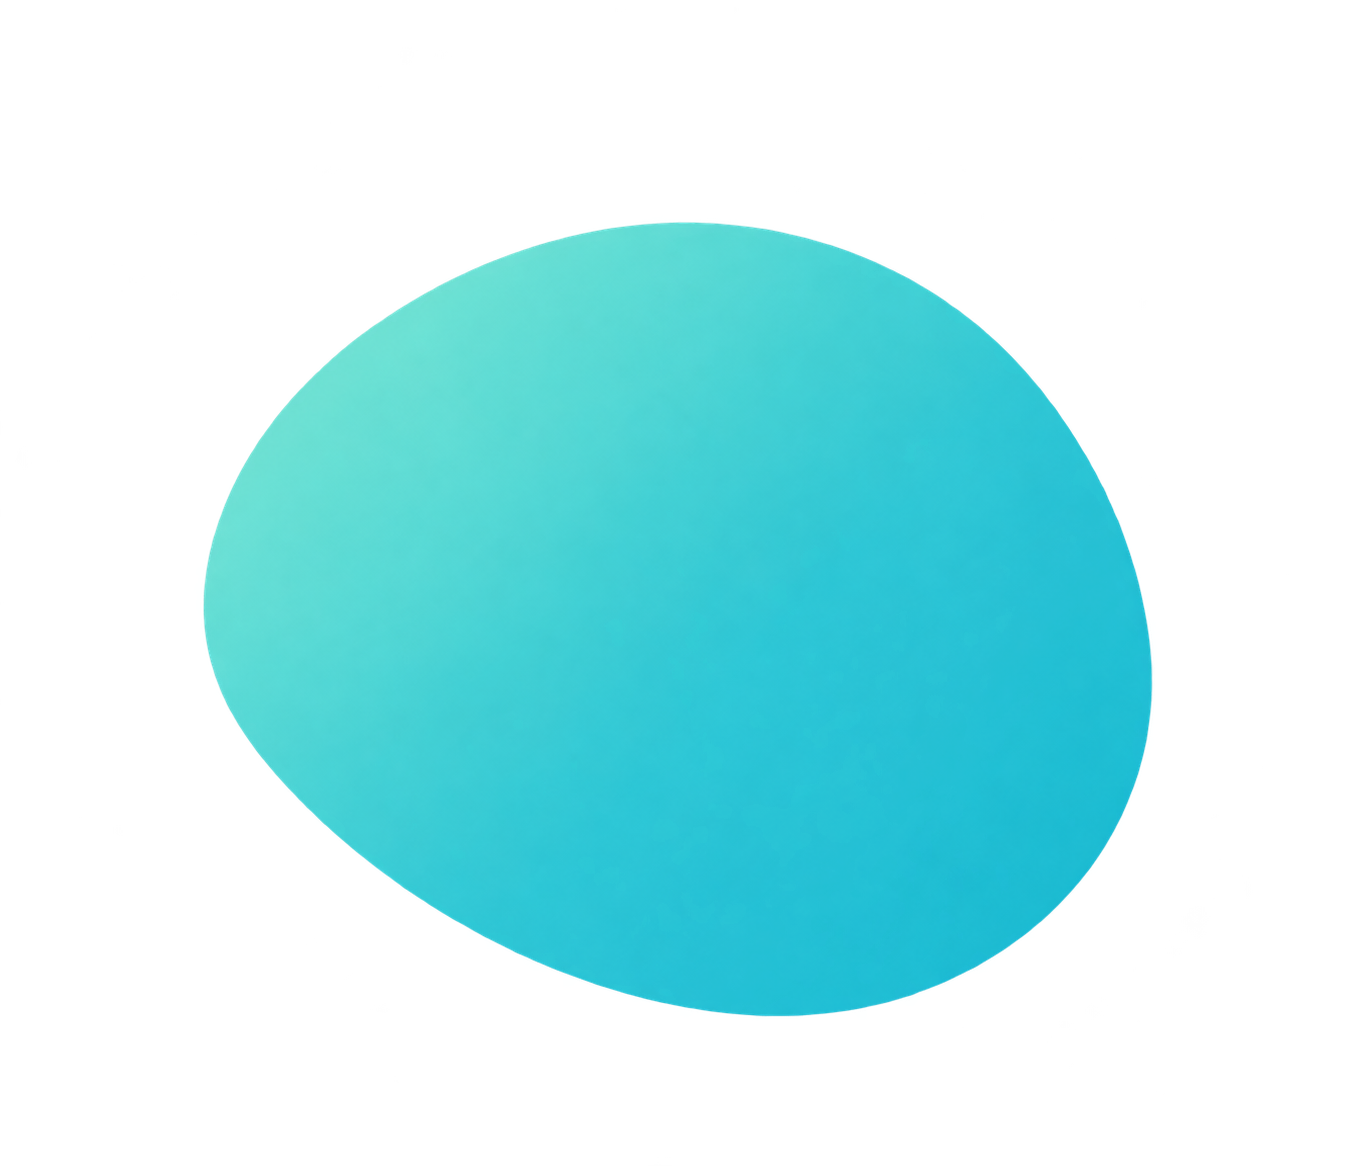
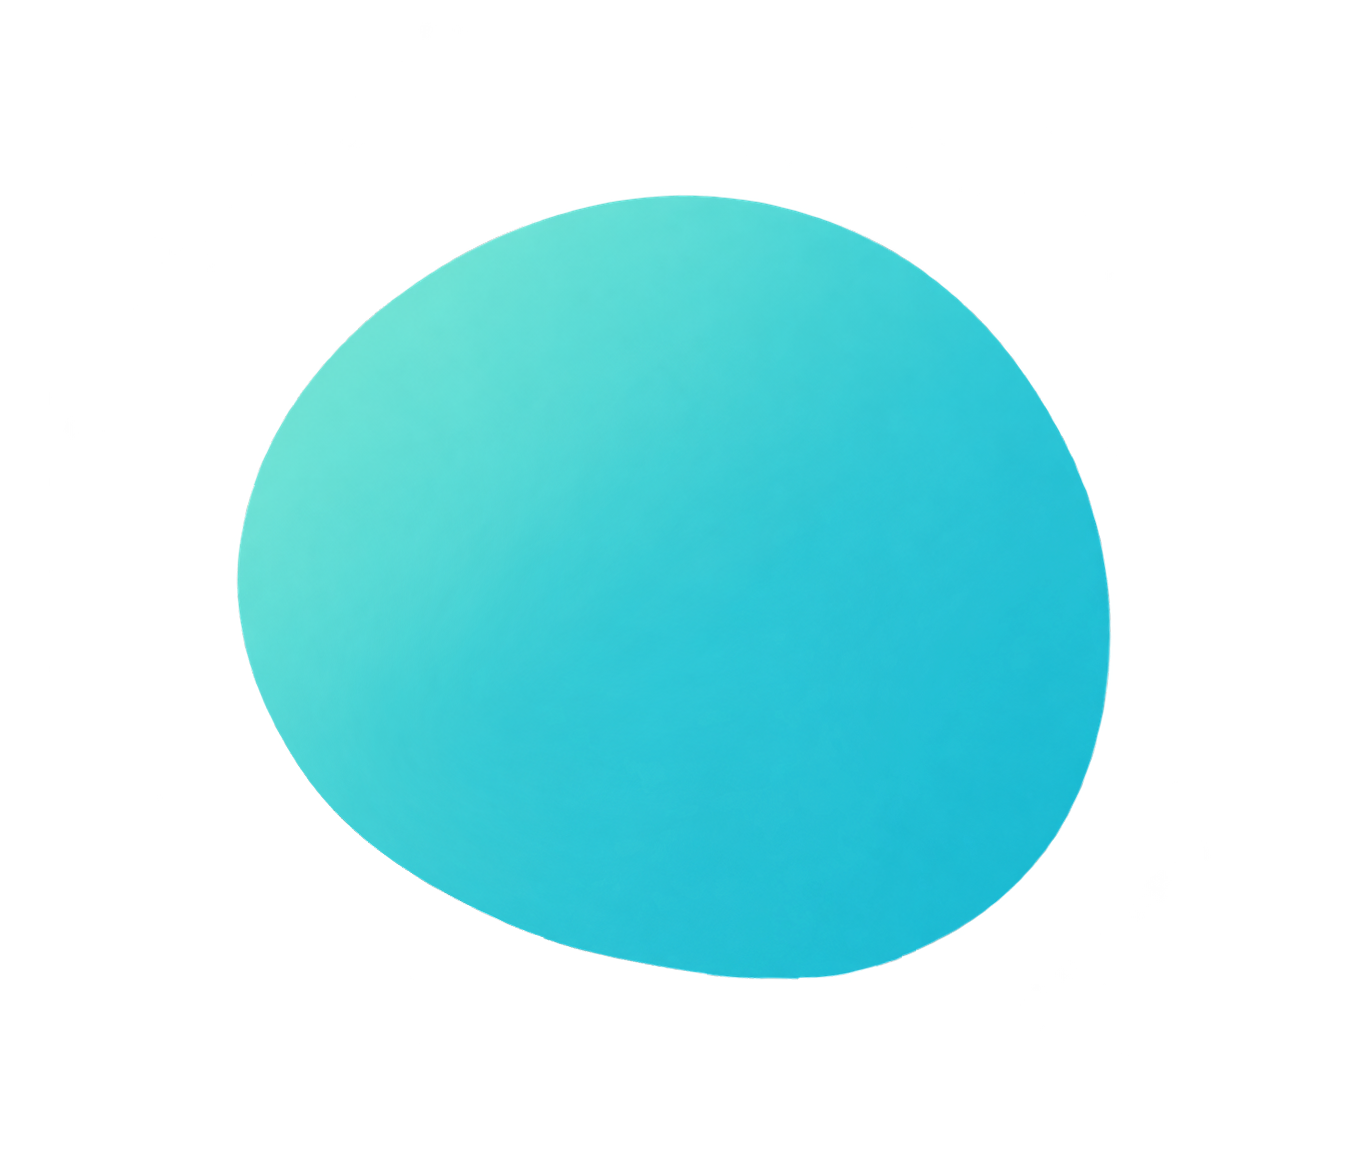
Обновить блоб и прокрутку чата

diff --git a/new/style.css b/new/style.css
@@ -2,8 +2,8 @@
 
 :root{font-family:Manrope,system-ui,-apple-system,BlinkMacSystemFont,"Segoe UI",sans-serif;color:#264d51;background:#f4fbfa;font-synthesis:none;-webkit-font-smoothing:antialiased}*{box-sizing:border-box}body{min-width:320px;min-height:100dvh;margin:0;background:radial-gradient(circle at 12% 12%,#dcf5ec 0,transparent 31rem),radial-gradient(circle at 88% 91%,#e5f0f9 0,transparent 33rem),#f6fbfa}button,input{font:inherit}button{cursor:pointer}.sr-only{position:absolute;width:1px;height:1px;overflow:hidden;clip:rect(0,0,0,0);white-space:nowrap}
 .assistant-lab{display:grid;grid-template-columns:minmax(0,1fr) minmax(380px,490px);gap:clamp(32px,7vw,100px);align-items:center;width:min(1120px,100%);min-height:100dvh;margin:0 auto;padding:clamp(28px,6vw,80px) 28px}.bot-stage{display:grid;justify-items:center;align-content:center;min-height:610px;text-align:center}.stage-copy{position:relative;z-index:1}.eyebrow{display:block;margin-bottom:8px;color:#72a09a;font-size:.68rem;font-weight:800;letter-spacing:.14em;text-transform:uppercase}.stage-copy h1{margin:0;color:#20494d;font-size:clamp(2rem,4.2vw,3.35rem);letter-spacing:-.065em;line-height:1.05}.stage-copy p{margin:15px 0 0;color:#789692;font-size:.9rem}.bot{position:relative;display:grid;place-items:center;width:clamp(178px,19vw,238px);aspect-ratio:1;margin:58px 0 25px;isolation:isolate;animation:float 4.5s ease-in-out infinite}.bot-glow{position:absolute;z-index:-1;width:118%;height:68%;border-radius:50%;background:#68d4c470;filter:blur(28px);transform:translateY(48%)}.bot-body{display:grid;place-items:center;width:100%;height:100%;border-radius:52% 48% 54% 46% / 44% 48% 52% 56%;background:linear-gradient(135deg,#69dcc2 0%,#44ceb8 52%,#3ac8bd 100%);box-shadow:inset 10px 12px 23px #ffffff45,inset -12px -14px 25px #168e8a20,0 21px 40px #3eb8ab40;transform:rotate(-7deg);transition:filter .25s ease}.bot-eyes{display:flex;gap:clamp(25px,3vw,35px);transform:translate(var(--gaze-x,0),var(--gaze-y,0)) rotate(7deg);transition:transform .18s ease-out;animation:blink 5.6s ease-in-out infinite}.bot-eye{display:block;width:clamp(12px,1.4vw,17px);height:clamp(31px,4vw,43px);border-radius:999px;background:#fff;box-shadow:0 1px 2px #167f7c35}.bot.thinking .bot-body{filter:saturate(.88) brightness(.97)}.bot.thinking .bot-eyes{animation-duration:1.4s}.stage-hint{color:#98aca9;font-size:.72rem}
-.help-panel{display:flex;flex-direction:column;min-height:620px;max-height:min(760px,calc(100dvh - 80px));overflow:hidden;border:1px solid #ffffffd9;border-radius:30px;background:#ffffffc9;box-shadow:0 28px 82px #2f7e7520,0 3px 16px #2f7e750b;backdrop-filter:blur(20px)}.help-header{display:flex;align-items:center;justify-content:space-between;gap:12px;padding:25px 26px 21px;border-bottom:1px solid #e6f0ed}.help-header .eyebrow{margin-bottom:5px}.help-header h2{margin:0;color:#274e52;font-size:1.48rem;letter-spacing:-.05em}.online{display:inline-flex;align-items:center;gap:6px;color:#7c9994;font-size:.68rem;font-weight:700}.online i{width:7px;height:7px;border-radius:50%;background:#58d1a8;box-shadow:0 0 0 4px #58d1a81e}.conversation{flex:1;overflow-y:auto;padding:23px 25px;scroll-behavior:smooth;scrollbar-color:#c7e3dd transparent;scrollbar-width:thin}.message{display:flex;flex-direction:column;align-items:flex-start;max-width:90%;margin:0 0 17px;animation:message-in .28s ease both}.message.user{align-items:flex-end;margin-left:auto}.message-bubble{padding:13px 15px;border:1px solid #e4eeeb;border-radius:18px 18px 18px 6px;background:#fff;color:#426568;font-size:.8rem;line-height:1.56;box-shadow:0 6px 18px #2d746f0a}.user .message-bubble{border:0;border-radius:18px 18px 6px 18px;background:linear-gradient(135deg,#61d6bf,#3ac5b8);color:#fff}.message-time{margin:5px 5px 0;color:#a6b8b5;font-size:.58rem}.choices{display:grid;grid-template-columns:repeat(2,minmax(0,1fr));gap:8px;margin:0 0 20px;animation:message-in .28s ease both}.choices button{min-height:43px;padding:8px 10px;border:1px solid #dcebe6;border-radius:12px;background:#fff;color:#4a7775;font-size:.68rem;font-weight:750;line-height:1.25;text-align:left;transition:transform .16s ease,border-color .16s ease,background .16s ease}.choices button:hover{border-color:#9cdacd;background:#f5fcfa;transform:translateY(-1px)}.choices button:active{transform:scale(.98)}.composer{display:flex;align-items:center;gap:8px;margin:0 19px calc(17px + env(safe-area-inset-bottom));padding:7px 7px 7px 15px;border:1px solid #dceae6;border-radius:18px;background:#fff;box-shadow:0 9px 25px #2d746f14}.composer:focus-within{border-color:#9edfd4;box-shadow:0 9px 25px #2d746f14,0 0 0 3px #76d7c628}.composer input{width:100%;min-width:0;border:0;outline:0;background:transparent;color:#32585b;font-size:.78rem}.composer input::placeholder{color:#a7bab7}.composer button{display:grid;place-items:center;width:38px;height:38px;flex:none;border:0;border-radius:12px;background:linear-gradient(135deg,#68d6be,#3ec4b8);color:#fff;box-shadow:0 5px 13px #3db9ae35}.composer button:active{transform:scale(.94)}.composer svg{width:19px;height:19px;fill:none;stroke:currentColor;stroke-width:2;stroke-linecap:round;stroke-linejoin:round}
-@keyframes float{0%,100%{transform:translateY(0) rotate(0)}50%{transform:translateY(-9px) rotate(1deg)}}@keyframes blink{0%,43%,47%,100%{scale:1 1}45%{scale:1 .08}}@keyframes message-in{from{opacity:0;transform:translateY(7px)}to{opacity:1;transform:none}}@media(max-width:820px){.assistant-lab{grid-template-columns:1fr;gap:18px;min-height:auto;padding:34px 16px}.bot-stage{min-height:0}.bot{width:152px;margin:28px 0 12px}.stage-hint{display:none}.help-panel{min-height:min(640px,72dvh);max-height:none}.stage-copy h1{font-size:2rem}.stage-copy p{margin-top:10px}.conversation{padding:19px 16px}.help-header{padding:20px 19px 17px}.composer{margin-right:13px;margin-left:13px}}@media(max-width:430px){.assistant-lab{padding:26px 11px 0}.help-panel{border-radius:24px 24px 0 0}.choices{grid-template-columns:1fr 1fr;gap:7px}.choices button{min-height:42px;padding:7px 8px;font-size:.64rem}.message{max-width:94%}}@media(prefers-reduced-motion:reduce){*,*:before,*:after{animation-duration:.01ms!important;transition-duration:.01ms!important;scroll-behavior:auto!important}}
+.help-panel{display:flex;flex-direction:column;min-height:620px;max-height:min(760px,calc(100dvh - 80px));overflow:hidden;border:1px solid #ffffffd9;border-radius:30px;background:#ffffffc9;box-shadow:0 28px 82px #2f7e7520,0 3px 16px #2f7e750b;backdrop-filter:blur(20px)}.help-header{display:flex;align-items:center;justify-content:space-between;gap:12px;padding:25px 26px 21px;border-bottom:1px solid #e6f0ed}.help-header .eyebrow{margin-bottom:5px}.help-header h2{margin:0;color:#274e52;font-size:1.48rem;letter-spacing:-.05em}.online{display:inline-flex;align-items:center;gap:6px;color:#7c9994;font-size:.68rem;font-weight:700}.online i{width:7px;height:7px;border-radius:50%;background:#58d1a8;box-shadow:0 0 0 4px #58d1a81e}.conversation{flex:1;min-height:0;overflow-y:auto;padding:23px 25px;scrollbar-color:#c7e3dd transparent;scrollbar-width:thin}.message{display:flex;flex-direction:column;align-items:flex-start;max-width:90%;margin:0 0 17px;animation:message-in .28s ease both}.message.user{align-items:flex-end;margin-left:auto}.message-bubble{padding:13px 15px;border:1px solid #e4eeeb;border-radius:18px 18px 18px 6px;background:#fff;color:#426568;font-size:.8rem;line-height:1.56;box-shadow:0 6px 18px #2d746f0a}.user .message-bubble{border:0;border-radius:18px 18px 6px 18px;background:linear-gradient(135deg,#61d6bf,#3ac5b8);color:#fff}.message-time{margin:5px 5px 0;color:#a6b8b5;font-size:.58rem}.choices{display:grid;grid-template-columns:repeat(2,minmax(0,1fr));gap:8px;margin:0 0 20px;animation:message-in .28s ease both}.choices button{min-height:43px;padding:8px 10px;border:1px solid #dcebe6;border-radius:12px;background:#fff;color:#4a7775;font-size:.68rem;font-weight:750;line-height:1.25;text-align:left;transition:transform .16s ease,border-color .16s ease,background .16s ease}.choices button:hover{border-color:#9cdacd;background:#f5fcfa;transform:translateY(-1px)}.choices button:active{transform:scale(.98)}.composer{display:flex;align-items:center;gap:8px;margin:0 19px calc(17px + env(safe-area-inset-bottom));padding:7px 7px 7px 15px;border:1px solid #dceae6;border-radius:18px;background:#fff;box-shadow:0 9px 25px #2d746f14}.composer:focus-within{border-color:#9edfd4;box-shadow:0 9px 25px #2d746f14,0 0 0 3px #76d7c628}.composer input{width:100%;min-width:0;border:0;outline:0;background:transparent;color:#32585b;font-size:.78rem}.composer input::placeholder{color:#a7bab7}.composer button{display:grid;place-items:center;width:38px;height:38px;flex:none;border:0;border-radius:12px;background:linear-gradient(135deg,#68d6be,#3ec4b8);color:#fff;box-shadow:0 5px 13px #3db9ae35}.composer button:active{transform:scale(.94)}.composer svg{width:19px;height:19px;fill:none;stroke:currentColor;stroke-width:2;stroke-linecap:round;stroke-linejoin:round}
+@keyframes float{0%,100%{transform:translateY(0) rotate(0)}50%{transform:translateY(-9px) rotate(1deg)}}@keyframes blink{0%,43%,47%,100%{scale:1 1}45%{scale:1 .08}}@keyframes message-in{from{opacity:0;transform:translateY(7px)}to{opacity:1;transform:none}}@media(max-width:820px){.assistant-lab{grid-template-columns:1fr;gap:18px;min-height:100dvh;padding:34px 16px}.bot-stage{min-height:0}.bot{width:152px;margin:28px 0 12px}.stage-hint{display:none}.help-panel{height:min(680px,78dvh);min-height:0;max-height:78dvh}.stage-copy h1{font-size:2rem}.stage-copy p{margin-top:10px}.conversation{padding:19px 16px}.help-header{padding:20px 19px 17px}.composer{margin-right:13px;margin-left:13px}}@media(max-width:430px){.assistant-lab{padding:26px 11px 0}.help-panel{border-radius:24px 24px 0 0}.choices{grid-template-columns:1fr 1fr;gap:7px}.choices button{min-height:42px;padding:7px 8px;font-size:.64rem}.message{max-width:94%}}@media(prefers-reduced-motion:reduce){*,*:before,*:after{animation-duration:.01ms!important;transition-duration:.01ms!important;scroll-behavior:auto!important}}
 
 /* У блоба три мягкие опорные вершины: верхняя, левая и нижняя. */
 .bot-body{position:absolute;inset:-6%;display:block;width:112%;height:112%;object-fit:contain;background:none!important;box-shadow:none!important;transform:none!important;filter:drop-shadow(0 21px 24px #3eb8ab40);overflow:visible}.bot-eyes{position:absolute;z-index:1;gap:clamp(25px,3vw,35px)}.bot.thinking .bot-body{filter:brightness(.96) saturate(.86) drop-shadow(0 21px 24px #3eb8ab40)}

diff --git a/new.html b/new.html
@@ -9,9 +9,9 @@
   <meta name="theme-color" content="#f4fbfa">
   <title>Медси Бот — помощник</title>
   <link rel="icon" href="/favicon.ico">
-  <link rel="stylesheet" href="/new/style.css?v=20261001-13">
+  <link rel="stylesheet" href="/new/style.css?v=20261001-14">
   <script defer src="/parents/smart-bot.js?v=20261001-5"></script>
-  <script defer src="/new/app.js?v=20261001-15"></script>
+  <script defer src="/new/app.js?v=20261001-16"></script>
   <script>
     // После первого открытия сервис-воркер всегда берёт /new и её файлы из сети.
     if ('serviceWorker' in navigator) navigator.serviceWorker.register('/sw.js?v=20261001-new-live-1').catch(() => {});
